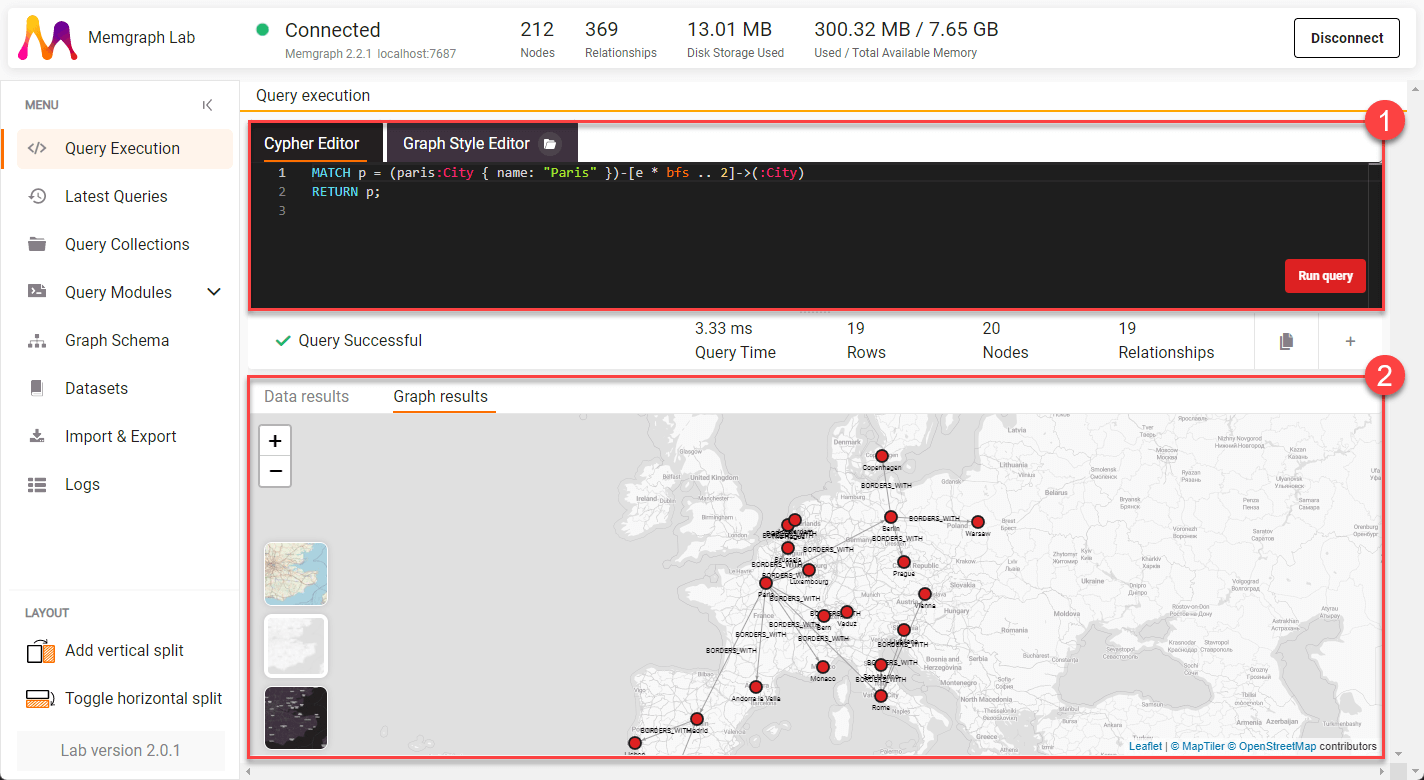
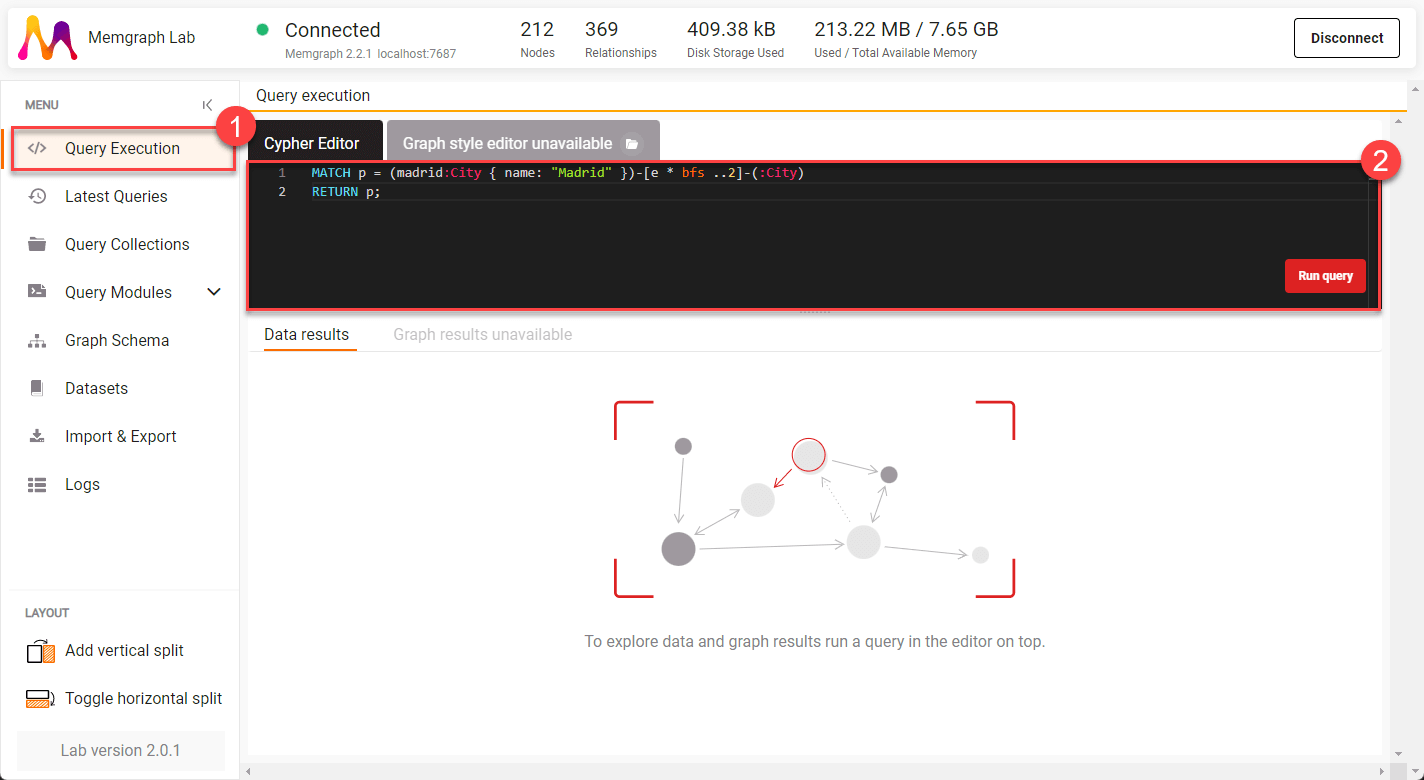
Update tutorial

diff --git a/docs/tutorials/first-steps-with-memgraph.md b/docs/tutorials/first-steps-with-memgraph.md
@@ -14,21 +14,18 @@ Let's get started!
 
 ## Prerequisites 
 
-:::info
-
 Memgraph Platform can be installed only with Docker. Instructions on how to
 install Docker can be found on the [official Docker
 website](https://docs.docker.com/get-docker/).
 
-:::
 
 ## 1. Install Memgraph Platform
 
-Downloading and installing Memgraph is super easy! All you need to do is to open
+First you need to download and install Memgraph Platform! All you need to do is to open
 a terminal on your computer and run the following command:
 
 ```bash
-docker run -it -p 7687:7687 -p 3000:3000 memgraph/memgraph-platform
+docker run -it -p 7687:7687 -p 7444:7444 -p 3000:3000 -v mg_lib:/var/lib/memgraph memgraph/memgraph-platform
 ```
 Depending on the speed of your internet connection it may take few minutes to download Memgraph docker image.
 
@@ -47,7 +44,7 @@ memgraph>
 
 ```
 
-And thats it! This means that you have installed Memgraph Platform and that you have Memgraph up and running. Kudos!
+This means that you have installed Memgraph Platform and that you have Memgraph up and running. Kudos!
 
 ## 2. Connect to MemgraphLab
 
@@ -61,39 +58,83 @@ That's it! You will no see Memgraph Lab Dashboard. Let's go to the next step.
 
 ## 3. Import dataset
 
-Since this is a fresh install there are no nodes and relationships in your database. We have prepared more than 20 datasets that you can use for testing and learning. You will now import of of those datasets. In the sidebar click **Datasets**. Next go to **Capital cities and borders** and click **Load Dataset**.
+Since this is a fresh install there are no nodes and relationships in your database. We have prepared more than 20 datasets that you can use for testing and learning. You will now import one of those datasets. In the sidebar click **Datasets**. Next go to **Capital cities and borders** and click **Load Dataset**.
 
 <img src={require('../data/tutorials/getting-started/memgraph-lab-datasets.png').default} className={"imgBorder"}/>
 
-You will see the warning that a new dataset will overwrite current data in the database. This is not a problem for you since you don't have any data in your database but in future be careful when importing data. Go ahead and click **Confirm**. Once the import is click **Run Sample Query**.
+You will see the warning that a new dataset will overwrite current data in the database. This is not a problem for you since you don't have any data in your database, but in future be careful when importing data. Go ahead and click **Confirm**. Once the import done click the **X** to close the dialog. 
+
+<img src={require('../data/tutorials/getting-started/memgraph-lab-dataset-import.png').default} className={"imgBorder"}/>
 
 ## 4. Run query
 
-You can see the the sample query in **Cypher Editor**. The graph is visible in **Graph results** tab.
+Here is task tah you are trying to solve. Imagine that you are in Madrid. And you want to visit other capital cities. You've decided that you want to visit one ofe the cities that are one or two hops away from Madrid. How can you find out which cities your possible destinations? You will use Cypher query language to find that out.
 
-<img src={require('../data/tutorials/getting-started/memgraph-lab-cypher-editor.png').default} className={"imgBorder"}/>
-
-You will now modify that query so that you can see the all of the capital cities that are up to three steps away from Madrid. Just copy paste this cove over the existing one. Don't worry about exact semantics of this query for now. We have great learning materials for Cypher. You can check them out latter.
-
+Click the **Query Execution** in the sidebar, and then copy-and-paste the following code into **Cypher Editor**.
 
 ```cypher
 
-MATCH p = (paris:City { name: "Madrid" })-[e * bfs ..3]-(:City)
+MATCH p = (madrid:City { name: "Madrid" })-[e * bfs ..2]-(:City)
 RETURN p;
 
+```
+This query will show on the map all of the capital cities that are up to two hops away from Madrid. Don't worry about exact semantics of this query for now. We have great learning materials for Cypher. You can check them out once you are done with this tutorial. Click **Run query** to run it. The result of the query is visible in **Graph results** tab.
+
+<img src={require('../data/tutorials/getting-started/memgraph-lab-cypher-editor.png').default} className={"imgBorder"}/>
+
+
+The result that you can see shows all of the capital cities that are two hops away from Madrid.
+
+<img src={require('../data/tutorials/getting-started/memgraph-lab-graph-results.png').default} className={"imgBorder"}/>
+
+We will not go deeper into the query at this time. We have great learning materials for Cypher and we will link them at the end of the tutorial.
+
+
+## 5. Style your graph
+
+When your results are shown on the map you can move around the map. Go ahead and zoom in and change the map style to **Detailed**. 
+
+<img src={require('../data/tutorials/getting-started/memgraph-lab-map-style.png').default} className={"imgBorder"}/>
+
+You will now use **Graph Style Editor** to change the way that nodes and relationships are shown on the map. For each capital city we have included a flag fo that country as a node property. You will now add one line of code to make it appear on the graph.
+
+Find the part of the code that looks like this
+
+```nocopy
+@NodeStyle HasLabel?(node, "City") {
+  color: #DD2222
+  color-hover: Lighter(#DD2222)
+  color-selected: Lighter(#DD2222)
+}
+```
+and add the line
 
 ```
-
-## Style your graph
-
-Change the map style to **Detailed**.
-
-```
-
-
-@NodeStyle {
   image-url: Property(node, "flag")
-  size: 10
+```
+
+so that this block looks like this.
+
+```nocopy
+@NodeStyle HasLabel?(node, "City") {
+  image-url: Property(node, "flag")
+  color: #DD2222
+  color-hover: Lighter(#DD2222)
+  color-selected: Lighter(#DD2222)
+}
+```
+
+Click **Apply** any your result should look like this.
+
+<img src={require('../data/tutorials/getting-started/memgraph-lab-style-editor.png').default} className={"imgBorder"}/>
+
+This looks great, but let's make names of the cites and nodes a little bit bigger.
+
+In the Graph Style Editor locate the following code
+
+```nocopy
+@NodeStyle {
+  size: 6
   color: #DD2222
   color-hover: Lighter(#DD2222)
   color-selected: Lighter(#DD2222)
@@ -101,8 +142,66 @@ Change the map style to **Detailed**.
   border-color: #1d1d1d
   font-size: 7
 }
+```
+and replace it with
+
+```
+@NodeStyle {
+  size: 10
+  color: #DD2222
+  color-hover: Lighter(#DD2222)
+  color-selected: Lighter(#DD2222)
+  border-width: 1.8
+  border-color: #1d1d1d
+  font-size: 12
+}
+
+You have increased the size of node to 10, and font size to 12. Now you will update the styling for relationships. To make them a ticker, and when you hover over them we want them to become red. In the Graph Style Editor locate the following code
+
+```nocopy
+@EdgeStyle {
+  color: #ff0000
+  color-hover: #1d1d1d
+  color-selected: #1d1d1d
+  width: 0.9
+  width-hover: 2.7
+  width-selected: 2.7
+  font-size: 7
+  label: Type(edge)
+}
+```
+and replace it with
+
+```
+@EdgeStyle {
+  color: #999999
+  color-hover: #ff0000
+  color-selected: #1d1d1d
+  width: 2
+  width-hover: 2.7
+  width-selected: 2.7
+  font-size: 7
+  label: Type(edge)
+}
+```
+With this code you have updated the width and hover color for the relationships.
+
+<details>
+  <summary>If you need it here is the complete Graph Style Code for this graph:</summary>
+
+```
+@NodeStyle {
+  size: 10
+  color: #DD2222
+  color-hover: Lighter(#DD2222)
+  color-selected: Lighter(#DD2222)
+  border-width: 1.8
+  border-color: #1d1d1d
+  font-size: 12
+}
 
 @NodeStyle HasLabel?(node, "City") {
+  image-url: Property(node, "flag")
   color: #DD2222
   color-hover: Lighter(#DD2222)
   color-selected: Lighter(#DD2222)
@@ -117,22 +216,30 @@ Change the map style to **Detailed**.
 }
 
 @EdgeStyle {
-  color: #ff0000
-  color-hover: #1d1d1d
+  color: #999999
+  color-hover: #ff0000
   color-selected: #1d1d1d
-  width: 0.9
+  width: 2
   width-hover: 2.7
   width-selected: 2.7
   font-size: 7
   label: Type(edge)
 }
+```  
 
-```
+</details>
+
+Here is what your graph looks like now.
+
+<img src={require('../data/tutorials/getting-started/memgraph-lab-map-style-final.png').default} className={"imgBorder"}/>
 
 ## Where to next?
 
 In this tutorial, you've learned how to install Memgraph, use Memgraph Lab to
-import dataset, run queries and style your graph. We hope that you had fun going
-through this tutorial! You can continue checkout [some of the
-tutorials](overview.md) that web have prepared for you.
+import dataset, run queries and style your graph. Not bad for a start, right?
+
+We hope that you had fun going through this tutorial! You can continue checkout
+[some of the tutorials](overview.md) that web have prepared for you or you can
+go to [Memgraph Playground](https://playground.memgraph.com/) to go through
+guided lessons, or to check out other dataset in sandbox sites.
 
